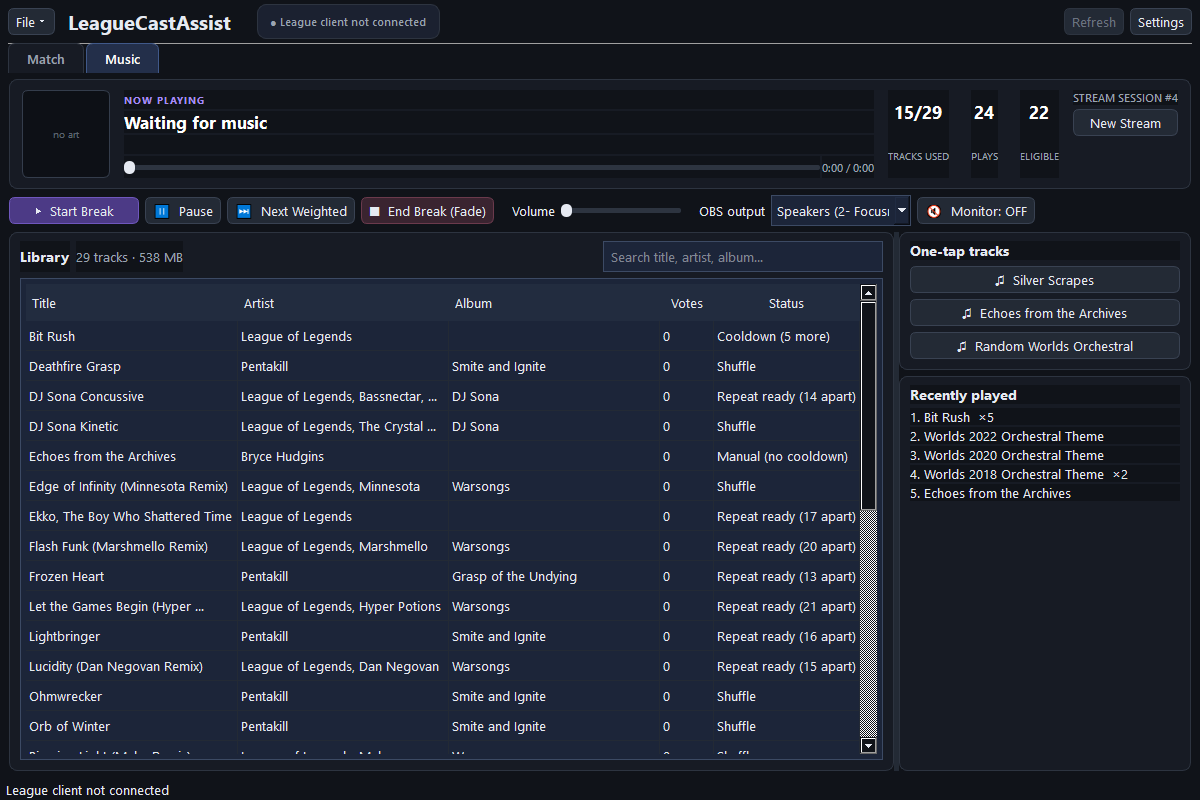
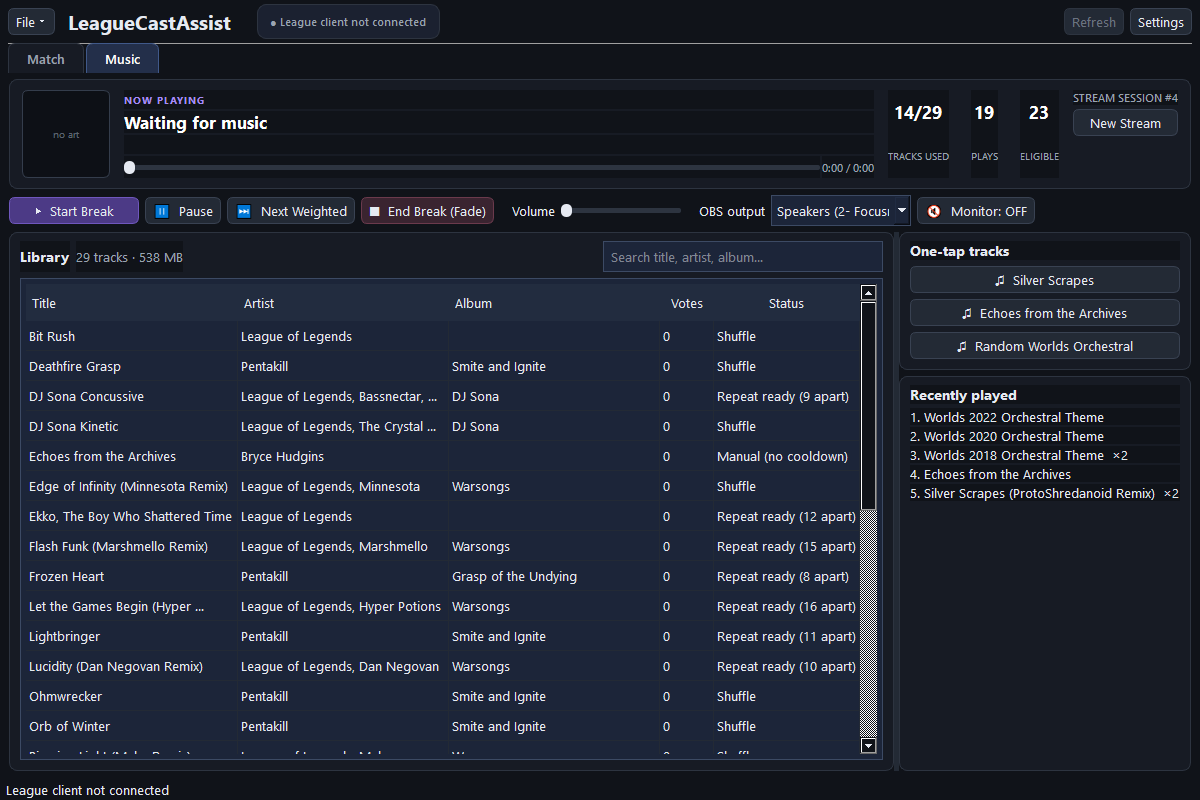
fix: restore data-worker failure dialog and land on the music page at startup
- Re-add MainWindow._show_worker_failure, dropped during the shell rewrite; the
  DataWorker signal connection raised AttributeError on the real launch path.
- Open on the Music page when 'show music when idle' is enabled instead of
  waiting for the first poll (the first state can lag behind CDragon loading).
- Polish: left-aligned library headers, collapse consecutive repeats in the
  recent-played list, clearer 'no media server configured' copy.

diff --git a/src/league_cast_assist/ui/main_window.py b/src/league_cast_assist/ui/main_window.py
@@ -130,6 +130,15 @@ class MainWindow(QMainWindow):
         self._auto_start_timer.setInterval(1000)
         self._auto_start_timer.timeout.connect(self._auto_start_tick)
 
+        # Land on the page the user will want while no game state is known yet;
+        # a detected game flips to the match page on the first poll.
+        if self._settings.focus.show_music_when_idle and not self._tabs.is_detached(
+            self._music_page
+        ):
+            self._tabs.setCurrentWidget(self._music_page)
+        self._initial_focus_done = True
+        self._sync_strip()
+
         if start_worker:
             self._start_worker()
         if self._settings.updates.auto_check and is_frozen_app():
@@ -317,6 +326,9 @@ class MainWindow(QMainWindow):
             return
         self.statusBar().showMessage("Refreshing Riot local data")
         self._worker.request_refresh()
+
+    def _show_worker_failure(self, traceback_text: str) -> None:
+        QMessageBox.critical(self, "Data worker failed", traceback_text)
 
     def _on_worker_finished(self) -> None:
         self._match_page.refresh_images()
